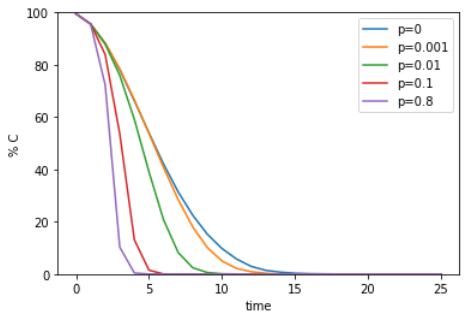
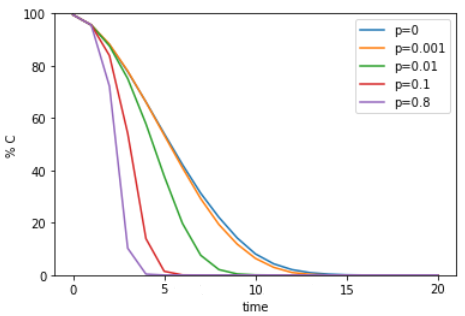
Change figure 2(f)

Changed region(s): [[0.0301, 0.0285, 0.9935, 0.9968], [0.0, 0.4272, 0.0602, 0.5127]]

diff --git a/reports/final_report.md b/reports/final_report.md
@@ -49,9 +49,10 @@ Figure 1 shows the proportion of cooperators that emerges for different values o
 
 All of the graphs converge at some value of %C. Once the value of %C stops changing we consider the behavior of the network to be stable. Before reaching a stable state the graph exhibits transient behavior.
 
-In the first experiment, we observed that there are 3 regimes after stabilization. In the second regime, the proportion of cooperators decreases as rewiring parameter p increases, that is, clustering coefficient decreases. We graph the proportion of cooperator over time to check the tendency of the network over time. We simulate it by giving 3 values of T and c<sub>0</sub> pair for each regime and changing p value with 0, 0.001, 0.01, 0.1, and 0.8. We set the first condition for Fig 2.(a) and (d) as T = 1.1 and c<sub>0</sub> = 0.1 because cooperators are dominant in the first regime. The second condition for Fig 2.(b) and (e) is T = 1.7 and c<sub>0</sub> = 0.5. The third condition for Fig 2.(c) and (f) is T = 3 and c<sub>0</sub> = 0.995 since defectors are dominant.
- 
-Unlike Masuda and Aihara, who observed that cooperators dominate in the first condition, our results show that the proportion of cooperators converges to small values in many of the graphs. The proportion of cooperators after transient behavior increases when p is large in Fig. 2(a), and small p in Fig. 2(d). If a cooperator is among defectors, it will always be dominated by the defectors. So cooperators must be clustered at the beginning in order to dominate the network. However, when the initial population of cooperators is low, the cooperators are surrounded by defectors, so defectors dominate.
+We observed that there are 3 regimes in Fig 1. In the second regime, the proportion of cooperators decreases as rewiring parameter p increases, that is, clustering coefficient decreases. 
+We made a graph of the proportion of cooperator over time to check the tendency of the network over time. We simulate it by giving 3 values of T and c<sub>0</sub> pair for each regime and changing p value with 0, 0.001, 0.01, 0.1, and 0.8. We set the first condition for Fig 2.(a) and (d) as T = 1.1 and c<sub>0</sub> = 0.1 because cooperators are dominant in the first regime. The second condition for Fig 2.(b) and (e) is T = 1.7 and c<sub>0</sub> = 0.5. The third condition for Fig 2.(c) and (f) is T = 3 and c<sub>0</sub> = 0.995 since defectors are dominant.
+
+Unlike Masuda and Aihara who observed that cooperators dominate in the first regime(For small T), our results show that the proportion of cooperators converges to small values in many of the graphs. The proportion of cooperators after transient behavior increases when p is large in Fig. 2(a), and small p in Fig. 2(d). If a cooperator is among defectors, it will always be dominated by the defectors. So cooperators must be clustered at the beginning in order to dominate the network. However, when the initial population of cooperators is low, the cooperators are surrounded by defectors, so defectors dominate.
 
 The graphs have zero value after transient for Fig2. (b) and (e). 
 In the third condition for Fig. 2(c) and (f), the cooperator's ratio converge to 0 and the graph converges faster with bigger p as we expected. Since the path length decreases as p increases, the defector spreads faster with bigger p.
